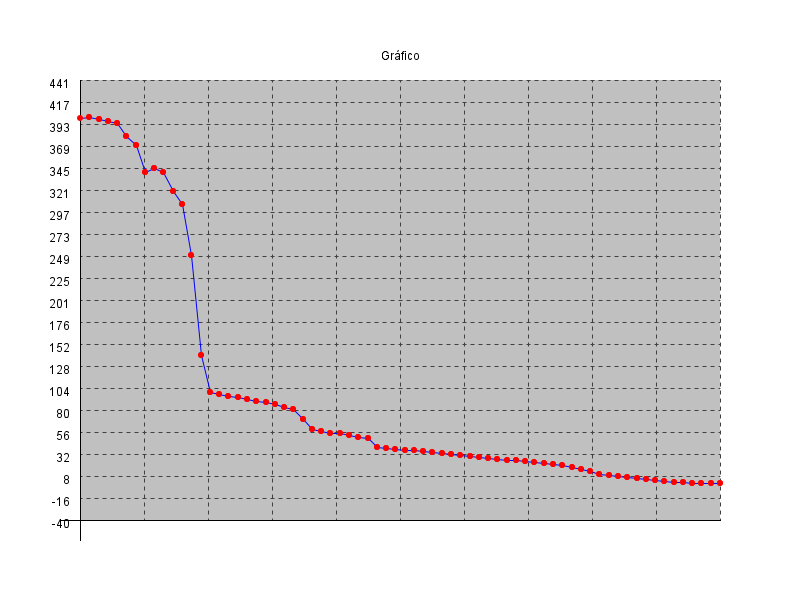
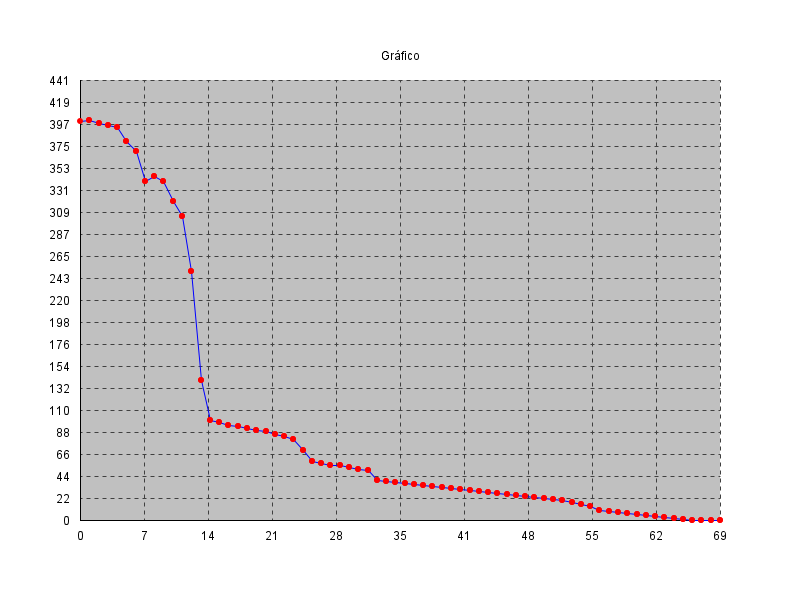
novo update
readme atualizado
plotgraphics com label X e Y

diff --git a/src/report/PlotGraphics.java b/src/report/PlotGraphics.java
@@ -37,7 +37,7 @@ public class PlotGraphics {
 
     public static void main(String[] args){
         double[] data = new double[]{400, 401, 398, 396, 394, 380, 370, 340, 345, 340, 320, 305, 250, 140, 100, 98, 95,
-                94, 92, 90, 89, 87, 84, 81, 70, 59, 57, 55, 55, 53, 51, 50, 40, 39, 38, 37, 36, 35, 34, 33, 32, 31, 30, 29, 28,
+                94, 92, 90, 89, 86, 84, 81, 70, 59, 57, 55, 55, 53, 51, 50, 40, 39, 38, 37, 36, 35, 34, 33, 32, 31, 30, 29, 28,
                 27, 26, 25, 24, 23, 22, 21, 20, 18, 16, 14, 10, 9, 8, 7,6, 5, 4, 3, 2, 1, 0, 0, 0, 0};
         PlotGraphics pg = new PlotGraphics(800,600,90,"eixoX", "eixoY","Gráfico", data);
         pg.plot();
@@ -109,7 +109,7 @@ public class PlotGraphics {
 
         double sizex = u.xend - u.xini;
         double incx = sizex/10.0;
-        double x = u.xend;
+        double x = u.xini;
 
         double sizey = u.yend - u.yini;
         double incy = sizey/20.0;
@@ -123,7 +123,7 @@ public class PlotGraphics {
             FontMetrics metrics = render.getFontMetrics();
             yLabel = Math.round(y) + "";
             int labelWidthy = metrics.stringWidth(yLabel);
-            render.drawString(yLabel,  border - labelWidthy - 10, border + j + metrics.getHeight() / 2);
+            render.drawString(yLabel,  border - labelWidthy - 10,  border + j + 5);
         }
 
         for(int i = 0; i <= tamW; i+=incW, x+=incx){
@@ -132,9 +132,9 @@ public class PlotGraphics {
 
             render.setColor(Color.BLACK);
             FontMetrics metrics = render.getFontMetrics();
-            xLabel = i + "";
+            xLabel = Math.round(x) + "";
             int labelWidthx = metrics.stringWidth(xLabel);
-            render.drawString(xLabel, i - labelWidthx / 2,  h + metrics.getHeight() + border - Math.round(0.75f*border));
+            render.drawString(xLabel, border + i - labelWidthx/2, h - border + 20);
         }
         //retorna a linha para o estilo continuo
         render.setStroke(oldStroke);
@@ -148,8 +148,8 @@ public class PlotGraphics {
     private void drawAxis(int border, Graphics2D render){
 
         render.setColor(Color.BLACK);
-        render.drawLine(border-Math.round(0.25f*border), h-border, w-border, h-border); // eixo x
-        render.drawLine(border, h-border+Math.round(0.25f*border), border, border); // eixo Y
+        render.drawLine(border, h-border, w-border, h-border); // eixo x
+        render.drawLine(border, h-border, border, border); // eixo Y
     }
 
     private void plotData(int border, Graphics2D render){
@@ -187,7 +187,7 @@ public class PlotGraphics {
             double ymax = getMaxValue();
             double tmp = ymax-ymin;
             ymax+= tmp * 0.1;
-            ymin-= tmp * 0.1;
+            ymin-= tmp * 0;
             return new Universe(xmin, xmax, ymin, ymax, this);
         }
         return null;

diff --git a/README.md b/README.md
@@ -5,11 +5,6 @@
 
 <h1 align="center">FRAMEWORK PARA REDES NEURAIS ARTIFICIAIS</h1>
 
-<p align="center">Este projeto é um Trabalho de conclusão de curso em Engenharia de
-Computação, à Faculdade FAENG do Centro Universitário Fundação Santo André. </p>
-
-
-
 <h4 align="center"> 
 	🚧  Status do Projeto 🚧 Em construção...  🚧
 </h4>
@@ -20,49 +15,39 @@ Tabela de conteúdos
 =================
 <!--ts-->
    * [Sobre](#Sobre)
-   * [Tabela de Conteudo](#tabela-de-conteudo)
-   * [Instalação](#instalacao)
-   * [Como usar](#como-usar)
-      * [Pre Requisitos](#pre-requisitos)
-      * [Local files](#local-files)
-      * [Remote files](#remote-files)
-      * [Multiple files](#multiple-files)
-      * [Combo](#combo)
-   * [Tests](#testes)
+   * [Features](#features)
+   * [Projetos futuros](#projetos futuros)
+   * [Javadoc](https://stackdev-tcc.github.io/framework-neural_network/)
+   * [Pré-requisitos](#pré-requisitos)
+   * [Rodando o JAR via JSHEL](#rodando o JAR via JSHEL)
    * [Tecnologias](#tecnologias)
    * [Autores](#autores)
 <!--te-->
+
+### Sobre
+
+Este projeto é um Trabalho de conclusão de curso em Engenharia de
+Computação, à Faculdade FAENG do Centro Universitário Fundação Santo André.
 
 ### Features
 
 - [x] Cria e manipula redes neurais
 - [x] Treinamento
+
+### Projetos futuros
+
 - [ ] Utilização de tensores
 
 ### Pré-requisitos
 
-
 Além disto é bom ter um editor para trabalhar com o código como [VSCode](https://code.visualstudio.com/)
 
-### Rodando o JAR
+### Rodando o JAR via JSHEL
 
 ```bash
-# Clone este repositório
-$ git clone <https://github.com/tgmarinho/nlw1>
+# Substitua "C:\\caminho do arquivo" pelo local onde ser encontra o arquivo .JAR
+jshell> /env -class-path C:\\caminho do arquivo
 
-# Acesse a pasta do projeto no terminal/cmd
-$ cd nlw1
-
-# Vá para a pasta server
-$ cd server
-
-# Instale as dependências
-$ npm install
-
-# Execute a aplicação em modo de desenvolvimento
-$ npm run dev:server
-
-# O servidor inciará na porta:3333 - acesse <http://localhost:3333>
 ```
 
 ### Tecnologias
@@ -70,12 +55,13 @@ $ npm run dev:server
 As seguintes ferramentas foram usadas na construção do projeto:
 
 - [Java](https://www.java.com/)
-- [HTML](https://)
-- [CSS](https://)
+- [HTML](https://developer.mozilla.org/en-US/docs/Web/HTML)
+- [CSS](https://developer.mozilla.org/en-US/docs/Web/CSS)
 
 ### Autores
 
 - Fabio Mendes Pio D'Anunzio
 - Jean Paulo Rodrigues Santos
-- Mauricio Yuji Nakandakari
 - Luís Emílio Cavechiolli Dalla Valle
+- Mauricio Yuji Nakandakari
+
